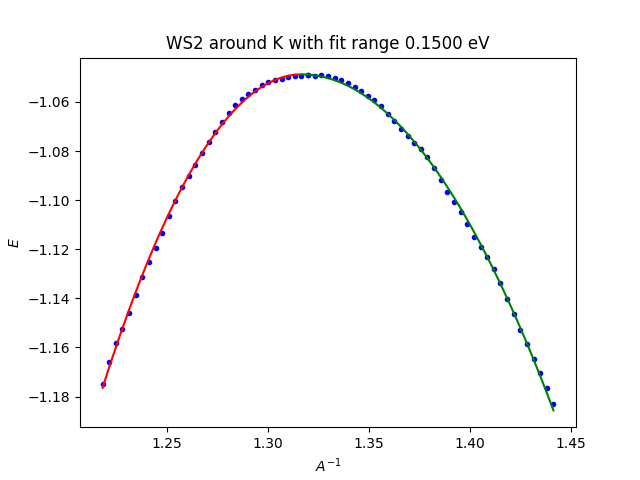
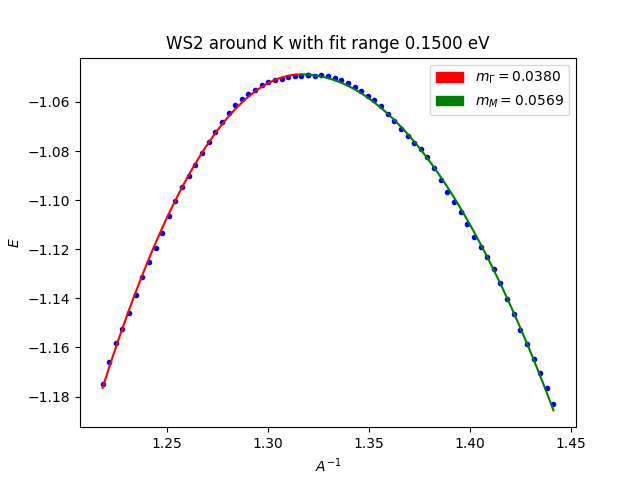
Final commit of 4_CEM

Changed region(s): [[0.6562, 0.125, 0.9062, 0.25]]

diff --git a/4_CEM_K/functions.py b/4_CEM_K/functions.py
@@ -182,8 +182,8 @@ def compute_image_CEM(en_cut,en,max_E,pars_moire,pars_grid,pars_interlayer,pars_
     plt.xticks([0,pars_grid[1]//2,pars_grid[1]],["{:.2f}".format(-pars_grid[0]/2),'0.00',"{:.2f}".format(pars_grid[0]/2)])
     plt.yticks([0,pars_grid[1]//2,pars_grid[1]],["{:.2f}".format(-pars_grid[0]/2),'0.00',"{:.2f}".format(pars_grid[0]/2)])
     fig = plt.gcf()
-    fig_filename = final_fig_filename(en,pars_moire,pars_grid,pars_interlayer,pars_spread,cluster)
-    fig.savefig(fig_filename)
+    fig_fn = final_fig_filename(en,pars_moire,pars_grid,pars_interlayer,pars_spread,cluster)
+    fig.savefig(fig_fn)
     if not cluster:
         plt.show()
     plt.close()
@@ -275,7 +275,7 @@ def final_fig_filename(en,pars_moire,pars_grid,pars_interlayer,pars_spread,clust
     range_K, k_pts = pars_grid
     a,b,c = pars_interlayer
     spread_k,spread_E,type_spread = pars_spread
-    return home_dirname(cluster) + 'figures/figure_'+"{:.4f}".format(en)+'_'+str(N)+'_'+"{:.3f}".format(V)+'_'+"{:.3f}".format(phase)+'_'+"{:.3f}".format(A_M)+'_'+"{:.3f}".format(range_K)+'_'+str(k_pts)+'_'+"{:.3f}".format(a)+'_'+"{:.3f}".format(b)+'_'+"{:.3f}".format(c)+'_'+"{:.3f}".format(spread_k)+'_'+"{:.3f}".format(spread_E)+'_'+type_spread+'.png'
+    return home_dirname(cluster) + 'temp/figure_'+"{:.4f}".format(en)+'_'+str(N)+'_'+"{:.3f}".format(V)+'_'+"{:.3f}".format(phase)+'_'+"{:.3f}".format(A_M)+'_'+"{:.3f}".format(range_K)+'_'+str(k_pts)+'_'+"{:.3f}".format(a)+'_'+"{:.3f}".format(b)+'_'+"{:.3f}".format(c)+'_'+"{:.3f}".format(spread_k)+'_'+"{:.3f}".format(spread_E)+'_'+type_spread+'.png'
 
 def home_dirname(cluster=False):
     """Computes the home dirname.

diff --git a/4_CEM_K/cem.py b/4_CEM_K/cem.py
@@ -14,7 +14,7 @@ else:
 #Hopt
 Hopt_WS2 = np.load(fs.Hopt_filename('WS2','up','2',cluster))
 Hopt_WSe2 = np.load(fs.Hopt_filename('WSe2','up','2',cluster))
-pars_H = (Hopt_WS2,Hopt_WSe2)
+pars_H = (Hopt_WSe2,Hopt_WS2)
 
 if cluster:
     arr_V = [0.001,0.0077,0.01,0.02,0.03]
@@ -30,17 +30,19 @@ if cluster:
     par_c = 0
 else:
     #Moire
-    N = 2   #Usual number of mini-BZ circles around central one
-    V = 0.01#077
+    N = 3   #Usual number of mini-BZ circles around central one
+    V = 0.0077
     phase = -106/180*np.pi
     A_M = 79.8      #Moire length -> Angstrom
     #Grid
     range_K = 0.2   #in A^-1, value of momentum around 0 (we take K the center of coordinates)
     k_pts = 101     #number of k-pts in each direction, in the range specified
     #Interlayer
-    par_a = 0
-    par_b = 0
+    par_a = 5
+    par_b = 5
     par_c = 0
+    pars_H[0][0] = pars_H[0][1] = (pars_H[0][0]+pars_H[0][1])/2
+    pars_H[1][0] = pars_H[1][1] = (pars_H[1][0]+pars_H[1][1])/2
 #
 pars_moire = (N,V,phase,A_M)
 pars_grid = (range_K, k_pts)
@@ -79,7 +81,7 @@ type_spread = 'Gauss'
 pars_spread = (spread_k,spread_E,type_spread)
 #Energy cuts
 max_E = np.max(energies)
-if cluster:
+if cluster or 1:
     e_cuts = [max_E-0.06,]
 else:
     e_cuts = [max_E-0.05 - 0.005*n for n in range(30)] #Start 50 meV below VBM

diff --git a/4_CEM_K/Fit_k.py b/4_CEM_K/Fit_k.py
@@ -44,6 +44,9 @@ else:
 if 0:
     plt.figure()
     plt.plot(res[:,0],res[:,1],'r.')
+    plt.title(mat,size=20)
+    plt.xlabel(r"$K'\rightarrow\Gamma\rightarrow K\rightarrow M\rightarrow K'$",size=15)
+    plt.ylabel("E (eV)",size=15)
     plt.show()
     exit()
 
@@ -89,6 +92,10 @@ if 1:
     plt.title(mat+' around K with fit range '+"{:.4f}".format(range_e)+' eV')
     plt.xlabel(r'$A^{-1}$')
     plt.ylabel(r'$E$')
+    import matplotlib.patches as mpatches
+    G_patch = mpatches.Patch(color='r', label="$m_\Gamma=$"+"{:.4f}".format(popt[0]))
+    M_patch = mpatches.Patch(color='g', label="$m_M=$"+"{:.4f}".format(popt[1]))
+    plt.legend(handles=[G_patch,M_patch])
     fig = plt.gcf()
     plt.show()
     if input("Save? (y/N)")=='y':

diff --git a/0_simple_model/G3_fit_Moire.py b/0_simple_model/G3_fit_Moire.py
@@ -40,7 +40,7 @@ except:
     new_image = Image.fromarray(np.uint8(pic))
     new_image.save(cut_imagename)
     #os.system("xdg-open "+new_imagename)
-if 1: #plot cut image
+if 0: #plot cut image
     import matplotlib.pyplot as plt
     plt.figure(figsize=(12,12))
     plt.imshow(pic)
@@ -60,6 +60,8 @@ dirname_data = home_dirname + "data_fits/"
 if bands_type == 1:
     popt_filename = dirname_data + "G_popt_interlayer_v1.npy"
     pars_H = np.load(popt_filename)
+    print(pars_H)
+    exit()
 elif bands_type == 3:
     filename = dirname_data + "3B_DFT_pars.pkl"
     with open(filename, 'rb') as f:

diff --git a/4_CEM_K/README.md b/4_CEM_K/README.md
@@ -10,7 +10,7 @@ the interlayer should be reduced.
 In this code we use the parabolic single orbital ('simple') model, with and without interlayer coupling.
 
 For the bilayer we use a Hamiltonian of the form:
-H = (E up           t(k)            )       with t(k) to be defined and a diagonal energy shift mu. and E up/down defined below.
+H = (E up           t(k)            )       with t(k) = -a(1-b k^2) to be defined and a diagonal energy shift mu. and E up/down defined below.
     (t*(k)          E down - c      )
 
 In the P case we fit the image using a and b. In the AP case instead we put a=b=0.
@@ -19,23 +19,38 @@ S11 seems to have C6 symmetry, with intensities probably modulated by the matrix
 S3 seems to have a more clear C3 symmetry. This could be due to more relevant interlayer coupling -> P case.
 
 STEPS:
-1-Extract band parameters for WSe2 and WS2, respectively. We take the monolayers' data around K to do so. Just the tip of the band 
-    is enough, since the cuts are 90 to 160 meV from the top valence band (TVB), which is given by WSe2. 
-    DONE -> Used a range of 0.15 eV from VBM for the fitting.
-            Used data of GG from both Gamma and M -> double fit with different mass for the 2 sides. 
-            The fitting was done using a parabolic dispersion -k^2/2m.
-2-Compute CEM for cuts every 5 meV from TVB without interlayer coupling (IC). 
-    Procedure:  we use for the energy the formula E(kx,ky) = mu - |k|^2/2m_2(cos^2(3/2 t)+m_2/m_1sen^2(3/2 t)) where m_G,m_M are the 
-                coefficients towards Gamma and M respectively, t=atan2(k_y/k_x). In this way we can interpolate between the two 
-                different slopes.
-    To compute: - Fixed values: N = 5, k_pts = 201, range_K = 0.2 A^-1, e_cuts from 50meV to 200 meV below VBM, every 5 meV.
-                - Spread pars: Use Gaussian spreading. spread_k = 0.01, spread_E = 0.01 -> to see better side bands.
-                - Variable pars: (V,phase) from Louk paper (7.7 meV,-106˚). A_M = 79.8 A. 
-    Compute:    - Basic above -> running Ygg
-                - Basic with t(k) = -a with a=1 (from fitting around Gamma.
-                - Basic with t(k) = -a with a=0.1 (from fitting around Gamma.
-                - Basic with t(k) = -a with a=0.01 (from fitting around Gamma.
-3-Add IC in the form of:    
-        a constant: t(k) = -a -> compute some cases (see value of a around Gamma for a starting value);
-        a constant plus a squared k dependence which is 0 at k: t(k) = -a(1-b*k^2) -> compute some cases (again look at the value of a and b from Gamma for reference);
+Procedure A:
+    1-Extract band parameters for WSe2 and WS2, respectively. We take the monolayers' data around K to do so. Just the tip of the band 
+        is enough, since the cuts are 90 to 160 meV from the top valence band (TVB), which is given by WSe2. 
+        DONE -> Used a range of 0.15 eV from VBM for the fitting.
+                Used data of GG from both Gamma and M -> double fit with different mass for the 2 sides. 
+                The fitting was done using a parabolic dispersion -k^2/2m.
+    2-Compute CEM for cuts every 5 meV from TVB without interlayer coupling (IC). 
+        Procedure:  we use for the energy the formula E(kx,ky) = mu - |k|^2/2m_M(cos^2(3/2 t)+m_M/m_G sen^2(3/2 t)) where m_G,m_M are the 
+                    coefficients towards Gamma and M respectively, t=atan2(k_y/k_x). In this way we can interpolate between the two 
+                    different slopes.
+        To compute: - Fixed values: N = 6, k_pts = 201, range_K = 0.2 A^-1, e_cuts from 50meV to 200 meV below VBM, every 5 meV.
+                    - Spread pars: Use Gaussian spreading. spread_k = 0.01, spread_E = 0.01 -> to see better side bands.
+                    - energy cut: 50 meV below VBM
+
+                    - Variable pars:    V: 0.001,0.0077(Louk val),0.02,0.03(Gamma val) (eV)
+                                        phase: 0, -106°(Louk val), pi
+                                        A_M: 50,60,70,80 (Angstrom)
+                                        a,b: 0,0.5,1,5
+
+
+#Change name files -> not absolute energy of the cut but distance from VBM.
+                   -> change prcision of V in name from .3f to .4f (7.7 meV approx to 8 right now).
+
+
+Procedure B:
+    1-Use a single mass for the parabolic dispersion -> C6 symmetry without the interactions.
+        Fit bilayer upper band around K (S3) -> get mass (already done somewhere).
+    2-Compute CEM:
+        Use for bilayer energy a 2x2 matrix with same dispersion up and down ?
+
+
+
+
+
 
